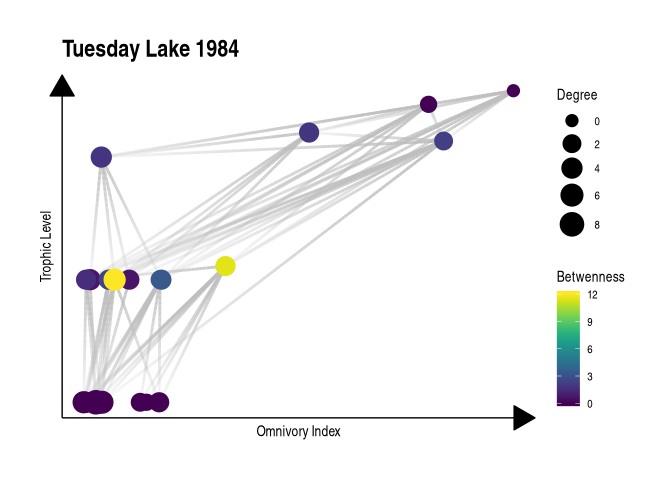
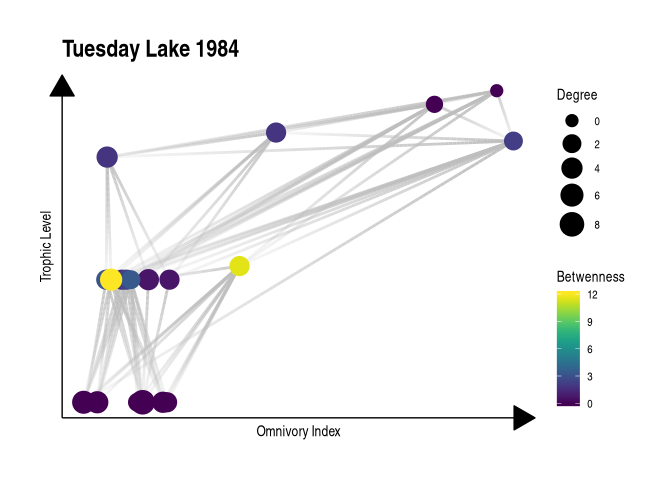
dodge default parameters changed and cascading edits

Changed region(s): [[0.0938, 0.1562, 0.7812, 0.875], [0.125, 0.3125, 0.2188, 0.5], [0.5312, 0.4688, 0.5625, 0.5]]

diff --git a/README.md b/README.md
@@ -9,7 +9,7 @@ experimental](https://img.shields.io/badge/lifecycle-experimental-orange.svg)](h
 status](https://travis-ci.org/gvdr/unravel.svg?branch=master)](https://travis-ci.org/gvdr/unravel)
 <!-- badges: end -->
 
-Hairballs, hairbalss everywhere. Most complex networks are plot in an
+Hairballs, hairballs everywhere. Most complex networks are plot in an
 (arguably) awe-inspiring, questionably informative way, that we should
 call “a ball of yarn” (Guðmundsdóttir B.
 [Unravel](https://invidio.us/watch?v=WgBbJKiRxmc), in Homogenic. El
@@ -84,7 +84,7 @@ library(dplyr)
 data("TuesdayLakes_1984")
 
 TuesdayLakes_1984 %>%
-  plot_foodweb()
+  plot_foodweb(dodge = 0.08)
 ```
 
 <img src="man/figures/README-example-1.png" width="100%" />
@@ -100,7 +100,7 @@ library(ggraph)
 
 
 TuesdayLakes_1984 %>%
-  plot_foodweb() +
+  plot_foodweb(dodge = 0.08) +
   ggtitle("Tuesday Lake 1984") +
   scale_colour_viridis()
 ```
@@ -131,7 +131,7 @@ TuesdayLakes_1984 %>%
   fw_node_size(tidygraph::centrality_authority) %>%
   ggfoodweb(default_layer) +
   # with ggfoodweb() we need to define the axis and guides labels by hand
-  scale_x_continuous(name = "Omnivory Index") +
+  scale_x_continuous(name = "Species Index") +
   scale_y_continuous(name = "Trophic Level") +
   guides(size = guide_legend(title="Authority"),
          colour = guide_colourbar(title="Eigen Centr")) +
@@ -139,7 +139,7 @@ TuesdayLakes_1984 %>%
   scale_colour_viridis()
 ```
 
-<img src="man/figures/README-cars-1.png" width="100%" />
+<img src="man/figures/README-ggfoodweb_example-1.png" width="100%" />
 
 ### Code of Conduct and Contribution
 
